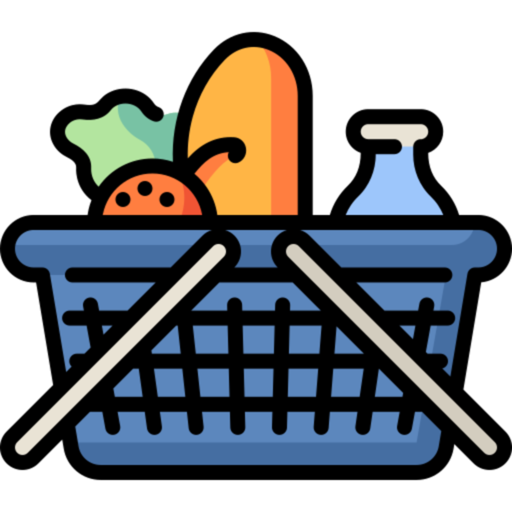
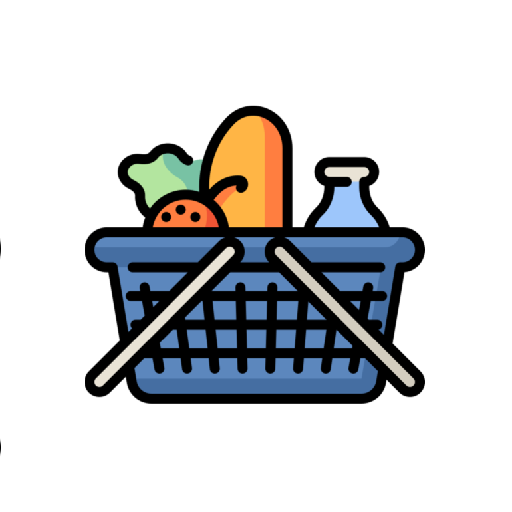
Fix carga vacía inicial

diff --git a/app/HouseholdContext.js b/app/HouseholdContext.js
@@ -1,7 +1,7 @@
 import React, { createContext, useContext, useState, useEffect, useRef, useCallback } from 'react';
 import AsyncStorage from '@react-native-async-storage/async-storage';
-import { doc, onSnapshot, updateDoc, setDoc, getDoc } from 'firebase/firestore'; 
-import { db } from './firebaseConfig'; 
+import { doc, onSnapshot, updateDoc, setDoc, getDoc } from 'firebase/firestore';
+import { db } from './firebaseConfig';
 
 export const HouseholdContext = createContext();
 
@@ -32,8 +32,9 @@ export const HouseholdProvider = ({ children }) => {
   const localIngredientsTime = useRef(0);
 
   // 🚀 INICIALIZACIÓN Y ESCUCHA EN TIEMPO REAL (FIREBASE + ASYNCSTORAGE)
+  // 📦 1. EFECTO: CARGA INICIAL DE ASYNCSTORAGE (Solo al abrir la app)
   useEffect(() => {
-    const initApp = async () => {
+    const initLocalData = async () => {
       try {
         const tShop = await AsyncStorage.getItem('@shopping_extras_time');
         const tPantry = await AsyncStorage.getItem('@pantry_items_time');
@@ -55,58 +56,89 @@ export const HouseholdProvider = ({ children }) => {
         if (sChecked) setCheckedItems(new Set(JSON.parse(sChecked)));
         if (sDeleted) setDeletedItems(new Set(JSON.parse(sDeleted)));
         if (sPantry) setPantryItems(JSON.parse(sPantry));
-        if (sMenu) setWeeklyMenuState(JSON.parse(sMenu));
 
+        if (sMenu) {
+          setWeeklyMenuState(JSON.parse(sMenu));
+        } else {
+          // Estructura limpia por defecto si la app es totalmente nueva
+          const DAYS_OF_WEEK = ['Lunes', 'Martes', 'Miércoles', 'Jueves', 'Viernes', 'Sábado', 'Domingo'];
+          const freshMenuStructure = {};
+          DAYS_OF_WEEK.forEach(day => {
+            freshMenuStructure[day] = [
+              { id: 'lunch', title: '☀ Comida', recipeId: null, diners: null },
+              { id: 'dinner', title: '🌙 Cena', recipeId: null, diners: null }
+            ];
+          });
+          setWeeklyMenuState(freshMenuStructure);
+        }
+
+        // Leemos si ya existía una familia guardada
         const hId = await AsyncStorage.getItem('@household_id');
         setHouseholdId(hId);
 
+        // 🛡 Si NO hay familia, la app local ya está lista para usarse de forma individual
         if (!hId) {
           setIsReady(true);
-          return;
         }
-
-        const docRef = doc(db, "households", hId);
-        const unsubscribe = onSnapshot(docRef, async (docSnap) => {
-          if (docSnap.exists()) {
-            const data = docSnap.data();
-
-            // Sincronización Módulo Compra
-            if ((data.shoppingUpdatedAt || 0) >= localShoppingTime.current) {
-              localShoppingTime.current = data.shoppingUpdatedAt || 0;
-              if (data.extras) setExtraItems(data.extras);
-              if (data.checked) setCheckedItems(new Set(data.checked));
-              if (data.deleted) setDeletedItems(new Set(data.deleted));
-            }
-
-            // Sincronización Módulo Despensa
-            if ((data.pantryUpdatedAt || 0) >= localPantryTime.current) {
-              localPantryTime.current = data.pantryUpdatedAt || 0;
-              if (data.pantry) {
-                setPantryItems(data.pantry);
-                await AsyncStorage.setItem('@pantry_items', JSON.stringify(data.pantry));
-              }
-            }
-
-            // Sincronización Módulo Menú Semanal
-            if ((data.menuUpdatedAt || 0) >= localMenuTime.current) {
-              localMenuTime.current = data.menuUpdatedAt || 0;
-              if (data.weeklyMenu) {
-                setWeeklyMenuState(data.weeklyMenu);
-                await AsyncStorage.setItem('@weekly_menu', JSON.stringify(data.weeklyMenu));
-              }
-            }
-          }
-          setIsReady(true);
-        });
-
-        return () => unsubscribe();
       } catch (error) {
-        console.error("Error en Contexto:", error);
+        console.error("Error cargando local storage:", error);
         setIsReady(true);
       }
     };
-    initApp();
+    initLocalData();
   }, []);
+
+  // 🚀 2. EFECTO: ESCUCHA DE FIREBASE EN TIEMPO REAL (Reacciona cuando cambia householdId)
+  useEffect(() => {
+    // Si no hay id de familia, no hay nada que escuchar en Firebase
+    if (!householdId) return;
+
+    // ⚡ DOSIS DE MAGIA: Ponemos la app temporalmente en "Cargando..." mientras 
+    // se conecta a Firebase y descarga los datos reales de la nueva familia
+    setIsReady(false);
+
+    const docRef = doc(db, "households", householdId);
+    const unsubscribe = onSnapshot(docRef, async (docSnap) => {
+      if (docSnap.exists()) {
+        const data = docSnap.data();
+
+        // Sincronización Módulo Compra
+        if ((data.shoppingUpdatedAt || 0) >= localShoppingTime.current) {
+          localShoppingTime.current = data.shoppingUpdatedAt || 0;
+          if (data.extras) setExtraItems(data.extras);
+          if (data.checked) setCheckedItems(new Set(data.checked));
+          if (data.deleted) setDeletedItems(new Set(data.deleted));
+        }
+
+        // Sincronización Módulo Despensa
+        if ((data.pantryUpdatedAt || 0) >= localPantryTime.current) {
+          localPantryTime.current = data.pantryUpdatedAt || 0;
+          if (data.pantry) {
+            setPantryItems(data.pantry);
+            await AsyncStorage.setItem('@pantry_items', JSON.stringify(data.pantry));
+          }
+        }
+
+        // Sincronización Módulo Menú Semanal
+        if ((data.menuUpdatedAt || 0) >= localMenuTime.current) {
+          localMenuTime.current = data.menuUpdatedAt || 0;
+          if (data.weeklyMenu) {
+            setWeeklyMenuState(data.weeklyMenu);
+            await AsyncStorage.setItem('@weekly_menu', JSON.stringify(data.weeklyMenu));
+          }
+        }
+      }
+      
+      // En cuanto los datos reales de la nube impactan en el contexto, liberamos la pantalla
+      setIsReady(true);
+    }, (error) => {
+      console.error("Error en Firebase onSnapshot:", error);
+      setIsReady(true);
+    });
+
+    // Limpiamos el escuchador antiguo si el householdId vuelve a cambiar
+    return () => unsubscribe();
+  }, [householdId]); // 👈 ¡ESTA ES LA CLAVE! Ejecuta este efecto cada vez que cambie el ID
 
   // Función genérica para empujar datos locales hacia Firebase protegiendo las versiones
   const syncModuleToFirebase = async (updates, moduleTimeKey, localTimeRef) => {
@@ -116,8 +148,8 @@ export const HouseholdProvider = ({ children }) => {
     try {
       const docRef = doc(db, "households", householdId);
       await updateDoc(docRef, { ...updates, [moduleTimeKey]: now });
-    } catch (e) { 
-      console.log(`[Offline] Datos guardados localmente.`); 
+    } catch (e) {
+      console.log(`[Offline] Datos guardados localmente.`);
     }
   };
 
@@ -131,10 +163,10 @@ export const HouseholdProvider = ({ children }) => {
     await AsyncStorage.setItem('@shopping_checked', JSON.stringify(Array.from(newChecked)));
     await AsyncStorage.setItem('@shopping_deleted', JSON.stringify(Array.from(newDeleted)));
     await AsyncStorage.setItem('@shopping_extras_time', Date.now().toString());
-    await syncModuleToFirebase({ 
-      extras: newExtras, 
-      checked: Array.from(newChecked), 
-      deleted: Array.from(newDeleted) 
+    await syncModuleToFirebase({
+      extras: newExtras,
+      checked: Array.from(newChecked),
+      deleted: Array.from(newDeleted)
     }, 'shoppingUpdatedAt', localShoppingTime);
   };
 
@@ -155,10 +187,10 @@ export const HouseholdProvider = ({ children }) => {
   const startNewWeek = async () => {
     const now = Date.now();
 
-  // 1. Generamos la estructura base limpia (Comida y Cena para cada día)
+    // 1. Generamos la estructura base limpia (Comida y Cena para cada día)
     const DAYS_OF_WEEK = ['Lunes', 'Martes', 'Miércoles', 'Jueves', 'Viernes', 'Sábado', 'Domingo'];
     const freshMenuStructure = {};
-    
+
     DAYS_OF_WEEK.forEach(day => {
       freshMenuStructure[day] = [
         { id: 'lunch', title: '☀ Comida', recipeId: null, diners: null },
@@ -208,7 +240,7 @@ export const HouseholdProvider = ({ children }) => {
 
     recipe.ingredients.forEach(recipeIng => {
       // Buscamos coincidencia por ID o por nombre normalizado (ignorando mayúsculas y espacios)
-      const pantryIndex = newPantry.findIndex(pantryItem => 
+      const pantryIndex = newPantry.findIndex(pantryItem =>
         (pantryItem.id && recipeIng.id && pantryItem.id === recipeIng.id) ||
         (pantryItem.name.toLowerCase().trim() === recipeIng.name.toLowerCase().trim())
       );
@@ -217,7 +249,7 @@ export const HouseholdProvider = ({ children }) => {
         hasIngredients = true;
         // Escalado de porciones: (Cantidad base / Comensales base) * Comensales reales
         const amountNeeded = (recipeIng.amount / recipeBaseDiners) * diners;
-        
+
         // Restamos cantidad evitando números negativos
         newPantry[pantryIndex].amount = Math.max(0, newPantry[pantryIndex].amount - amountNeeded);
       }
@@ -270,7 +302,7 @@ export const HouseholdProvider = ({ children }) => {
       pantryItems, updatePantry,
       weeklyMenu, updateMenu,
       startNewWeek,
-      consumeRecipeIngredients, 
+      consumeRecipeIngredients,
       customIngredients, setCustomIngredients,
       createHousehold,
       joinHousehold

diff --git a/app/(tabs)/index.tsx b/app/(tabs)/index.tsx
@@ -8,7 +8,7 @@ import AsyncStorage from '@react-native-async-storage/async-storage';
 import { useHousehold } from '../HouseholdContext';
 
 // Importaciones actualizadas (hemos quitado assignRecipeToMenu y weeklyMenu de aquí, ahora viven en el Contexto)
-import { MOCK_RECIPES, getTotalEatOutCost, initAppData, consumeRecipeFromPantry, INGREDIENTS_DB, getCanonicalName, normalizeToBase } from '../tempData';
+import { MOCK_RECIPES, getTotalEatOutCost, initAppData, consumeRecipeFromPantry, INGREDIENTS_DB, getCanonicalName, normalizeToBase, weeklyMenu } from '../tempData';
 
 const DAYS_OF_WEEK = ['Lunes', 'Martes', 'Miércoles', 'Jueves', 'Viernes', 'Sábado', 'Domingo'];
 
@@ -95,7 +95,6 @@ export default function MenuScreen() {
 
   useEffect(() => {
     const loadData = async () => {
-      await initAppData();
       // Primera lectura rápida del presupuesto
       try {
         const savedCost = await AsyncStorage.getItem('@estimated_shopping_cost');
@@ -616,8 +615,8 @@ export default function MenuScreen() {
       </View>
     );
   };
-
-  if (!isReady || !dataLoaded) {
+  
+  if (!isReady || !dataLoaded || !menuData || Object.keys(menuData).length === 0) {
     return (
       <View style={{ flex: 1, justifyContent: 'center', alignItems: 'center', backgroundColor: '#e6f7ff' }}>
         <Text style={{ fontSize: 18, color: '#2f95dc', fontWeight: 'bold' }}>Cargando tu menú...</Text>
